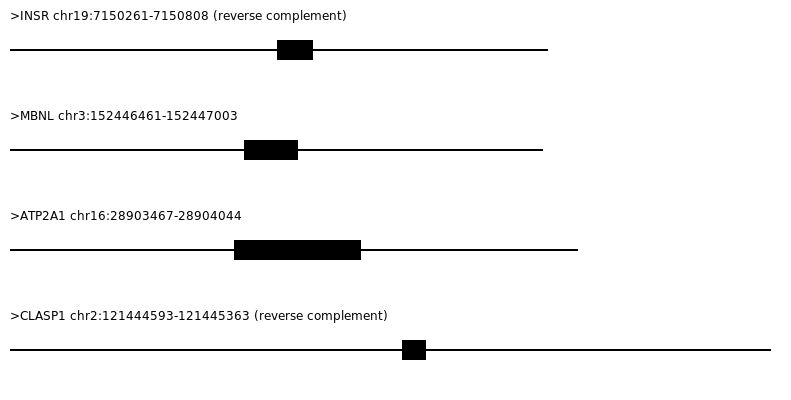
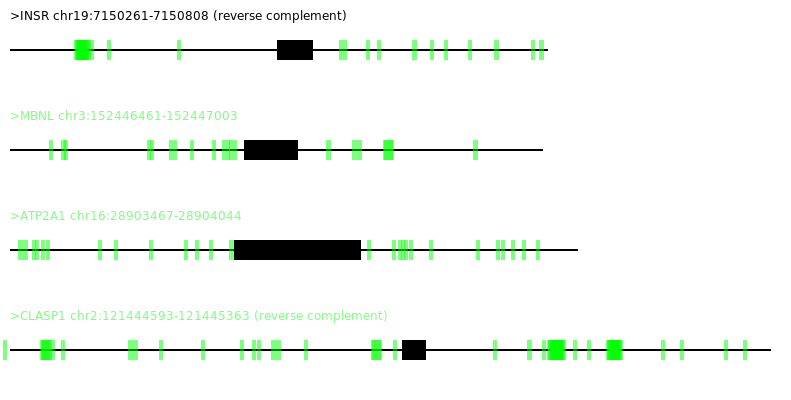
progress - draws motifs, but doesn't change color

diff --git a/motif-mark-oop.py b/motif-mark-oop.py
@@ -12,7 +12,7 @@ prefix:str = fasta_file.split(".")[0] #save the prefix of the input fasta file t
 
 
 #initialize variables
-motif_list:list = []
+motif_dict:dict = {} #keys are regex motifs and values are the original sequence lengths
 longest_gene:int = 0
 num_genes:int = 0
 
@@ -23,6 +23,22 @@ sequence:str = ""
 seq_length:int = 0
 
 is_DNA_file = bioinfo.validate_base_file(fasta_file) #True if fasta is a DNA file. False if RNA
+
+class Motif:
+    def __init__(self, start, length, gene_position):
+        '''Take in the regex motif, the motif start on the gene, the length of the .'''
+
+        # Data
+        self.start = start
+        self.length = length
+        self.gene_position = gene_position
+
+    # Methods
+    def draw_motif(self):
+        #draw the motif based on the start and the length
+        context.rectangle(self.start, self.gene_position, self.length, 20)        #(x0, y0, length, height)
+        context.set_source_rgba(0,1,0, 0.5)
+        context.fill()
 
 
 with open(motifs_file, "r") as m_file: #write all motifs into a list
@@ -38,9 +54,9 @@ with open(motifs_file, "r") as m_file: #write all motifs into a list
         print(seq)
         regex_motif = bioinfo.motif_to_regex(seq, DNAflag = is_DNA_file)
 
-        motif_list.append(regex_motif.lower()) #add the regex motif to the motif list
+        motif_dict[regex_motif.lower()] = len(seq) #add the regex motif to the motif list
 
-print(motif_list)
+print(motif_dict)
 
 with open(fasta_file, "r") as f_file: #grab important info about each sequence ans store it in a dictionary
     for line in (f_file):
@@ -115,32 +131,26 @@ for header in gene_dict.keys():
     context.set_source_rgba(0,0,0, 1)
     context.fill()
 
+
+#---------------START HERE AFTER MAKING THE MOTIF TO REGEX CONVERSION FUNCTION IN BIOINFO-----------------------------
+    #find the motif in the sequence
+    for motif in motif_dict.keys():
+        motif_length = motif_dict[motif]
+        for i, char in enumerate(sequence):
+             check = sequence[i:i+motif_length]
+             if re.match(motif, check):
+                motif_obj = Motif(i+1, motif_length, y1)
+                motif_obj.draw_motif()
+                print("motif drawn")
+
+
     #move the y positions to the next exon
     y1 += 100
     text_start += 100
 
-
-#---------------START HERE AFTER MAKING THE MOTIF TO REGEX CONVERSION FUNCTION IN BIOINFO-----------------------------
-    #find the motif in the sequence
-    #for each motif in motif_list:
-        #re.findall to find all the matches of that position
-        #make the motif object
-        #draw the motif object
 
 
 
 
 surface.write_to_png(image_file_name)
 
-class Motif:
-    def __init__(self, the_name, the_sex, the_language):
-        '''This is how a human is made.'''
-
-        # Data
-        self.name = the_name
-        self.sex = the_sex
-        self.language = the_language
-
-    # Methods
-    def introduce(self):
-        print(f'My name is {self.name} and I speak {self.language}.')
